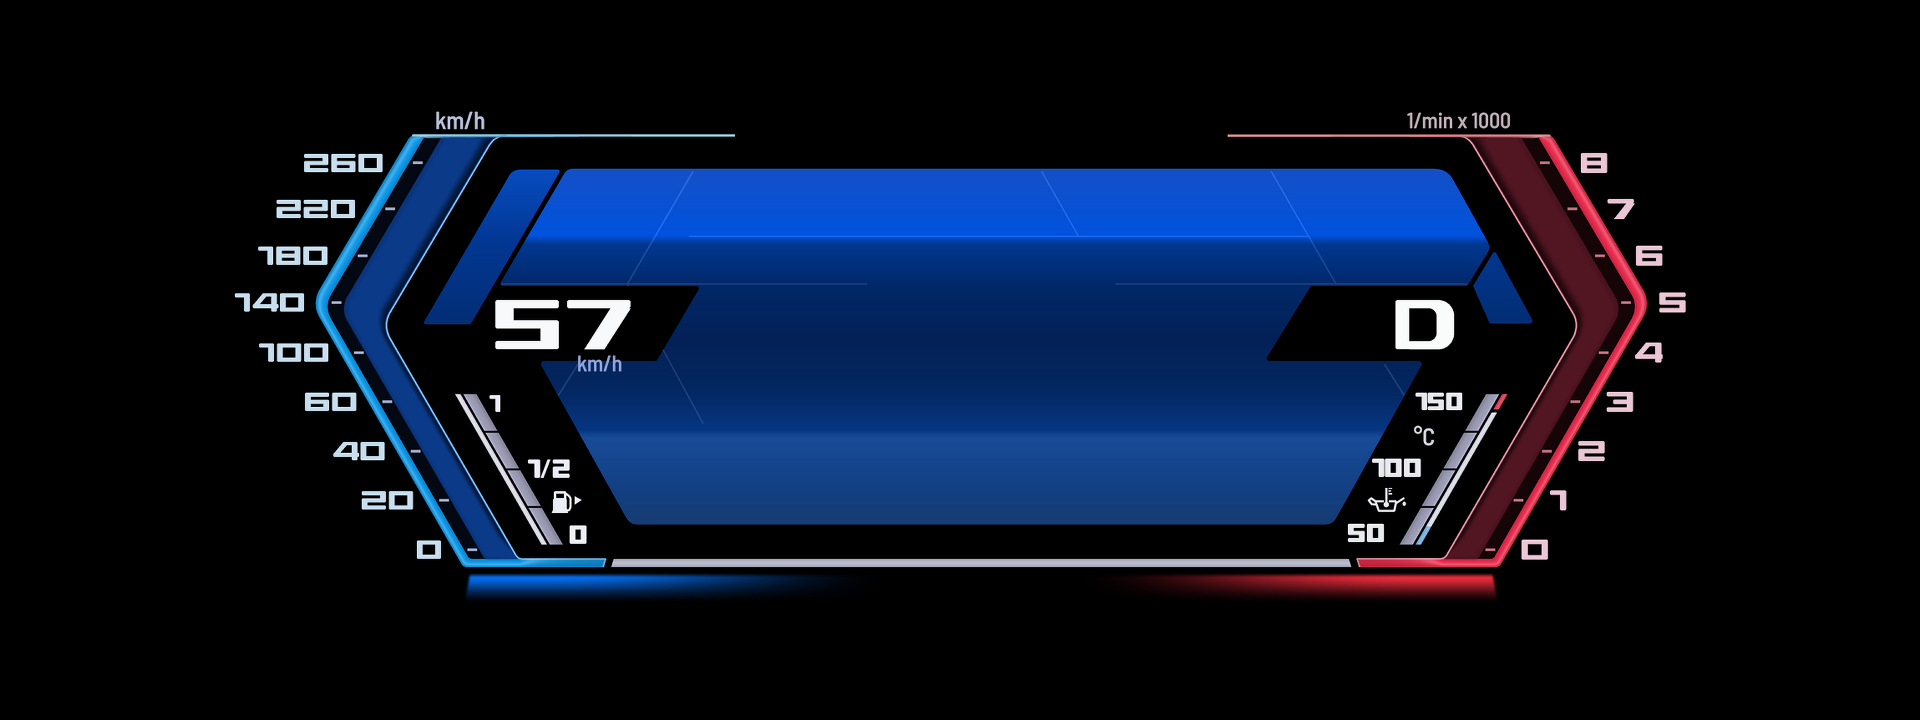
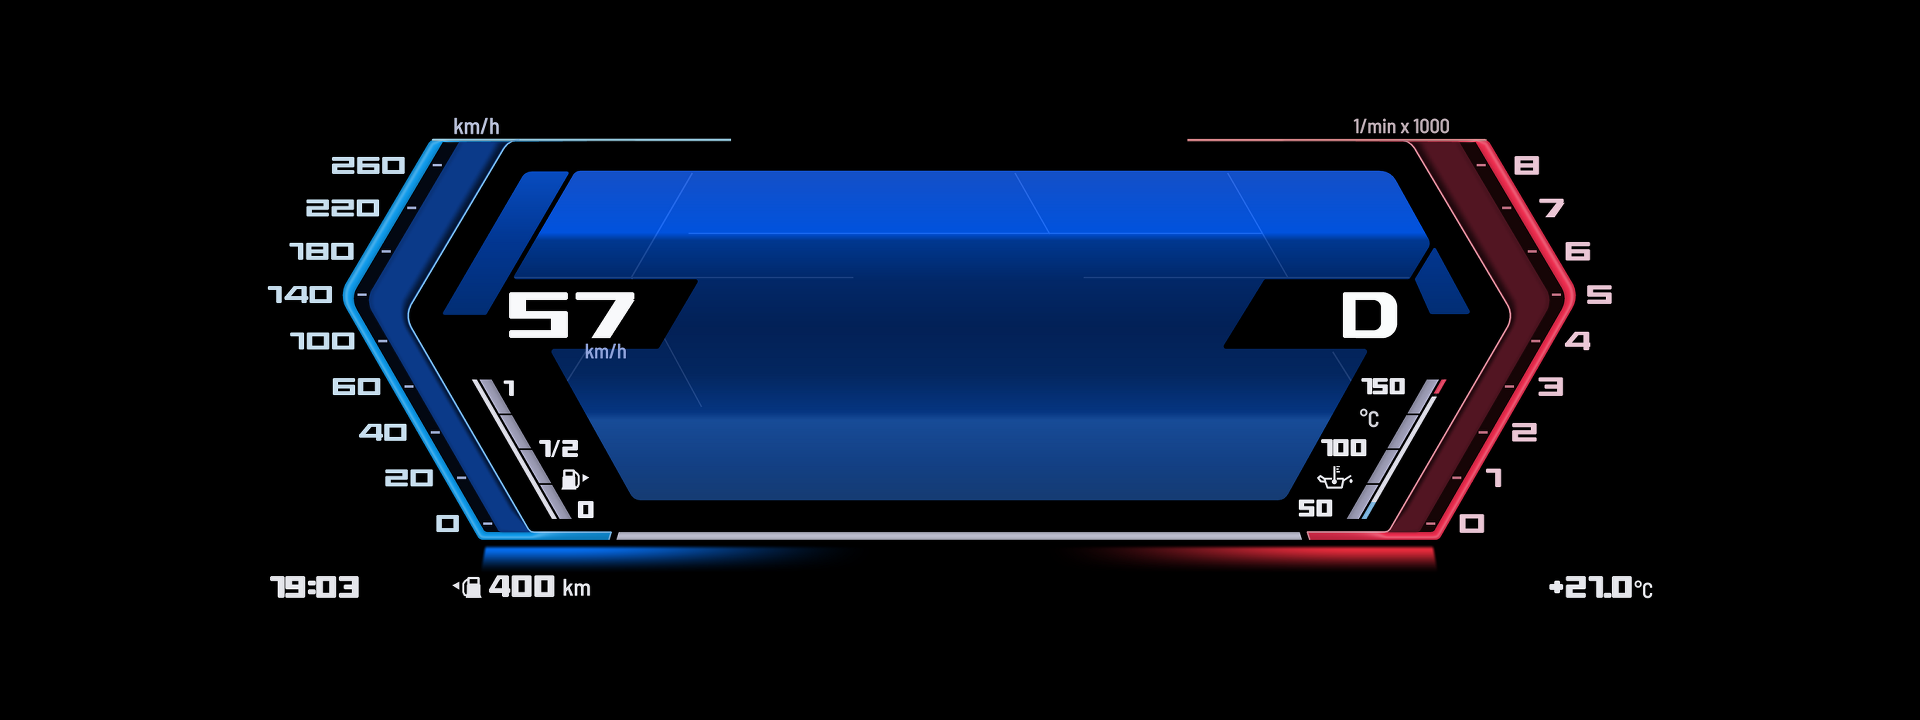
cluster: ID8-A bottom row (clock, range with the pump, outside temperature); the whole layout re-fitted to the visible area automatically
Claude-Session: https://claude.ai/code/session_01APCM7bQyWwkFmahRh5zUds

Changed region(s): [[0.125, 0.1528, 0.875, 0.8556], [0.8125, 0.7944, 0.875, 0.8556], [0.125, 0.7944, 0.1875, 0.8556]]

diff --git a/cluster/tools/gen_static.py b/cluster/tools/gen_static.py
@@ -236,7 +236,11 @@ DIGITS = {
     '9': [_T, (0, 0, _L, 13.5), _M, (_R, 0, 29, 22), _B],
 }
 DIGITS['/'] = [('quad', (12, 0), (17, 0), (5, 22), (0, 22))]
-DIGIT_W = {'1': 18, '/': 17}
+DIGITS[':'] = [(0, 4.5, 8, 9.5), (0, 13.5, 8, 18.5)]
+DIGITS['.'] = [(0, 17, 8, 22)]
+DIGITS['+'] = [(7, 4.5, 13, 17.5), (0, 8, 20, 14)]
+DIGITS['-'] = [(0, 8, 20, 14)]
+DIGIT_W = {'1': 18, '/': 17, ':': 8, '.': 8, '+': 20, '-': 20}
 
 
 def big_glyph(ch, w, h, tb, tu):
@@ -611,13 +615,36 @@ def feet_glow(img, cfg):
 
 
 def fit_view(img, cfg):
-    """The finished layer scaled about the view's centre (config 'view'), so the layout stays inside the car's
-    visible area (config 'visible')."""
+    """The finished layer scaled uniformly (proportions unchanged) so the layout stays inside the car's visible area
+    (config 'visible'): 'auto' finds the largest scale that keeps every drawn pixel inside it, centred in it."""
     v = cfg.get('view')
-    if not v or v.get('scale', 1) == 1:
+    if not v:
         return img
     W, H = cfg['grid']
-    k, cx, cy = v['scale'], v['cx'] * W, v['cy'] * H
+    if v.get('auto'):
+        a = np.asarray(img)[..., :3].max(-1) > 12
+        ys, xs = np.nonzero(a)
+        bx0, bx1, by0, by1 = xs.min(), xs.max() + 1, ys.min(), ys.max() + 1
+        vb = cfg['visible']['box']
+        vx0, vy0, vx1, vy1 = vb[0] * W, vb[1] * H, vb[2] * W, vb[3] * H
+        vis = Image.new('L', (W, H), 0)
+        ImageDraw.Draw(vis).rounded_rectangle([vx0, vy0, vx1, vy1], radius=cfg['visible'].get('corner', 0), fill=255)
+        vis = np.asarray(vis) > 0
+        k = min((vx1 - vx0) / (bx1 - bx0), (vy1 - vy0) / (by1 - by0)) * v.get('margin', 1.0)
+        while True:                                            # shrink until no pixel lands outside (the round corners)
+            tx, ty = (vx0 + vx1) / 2, (vy0 + vy1) / 2
+            cx, cy = (tx - k * (bx0 + bx1) / 2) / (1 - k), (ty - k * (by0 + by1) / 2) / (1 - k)
+            out = _scale(img, k, cx, cy, W, H)
+            if not ((np.asarray(out)[..., :3].max(-1) > 12) & ~vis).any() or k < 0.5:
+                v['_fit'] = {'scale': round(k, 4), 'cx': round(cx, 1), 'cy': round(cy, 1)}
+                return out
+            k -= 0.005
+    if v.get('scale', 1) == 1:
+        return img
+    return _scale(img, v['scale'], v['cx'] * W, v['cy'] * H, W, H)
+
+
+def _scale(img, k, cx, cy, W, H):
     big = img.resize((W * 2, H * 2), Image.LANCZOS)          # resample from a larger copy, then down
     out = big.transform((W, H), Image.AFFINE, (2 / k, 0, 2 * (cx - cx / k), 0, 2 / k, 2 * (cy - cy / k)),
                         resample=Image.BICUBIC, fillcolor=(0, 0, 0, 255))
@@ -664,6 +691,26 @@ def build_static(cfg):
     draw_labels(img, cfg)
     draw_gauge_labels(img, cfg)
     W, H = cfg['grid']
+    for el in cfg['elements'].values():                       # the bottom row (live values sampled)
+        rw = el.get('row')
+        if not rw:
+            continue
+        for it in rw['items']:
+            draw_number(img, it['sample'], it['at'][0] * W, it['at'][1] * H, rw['h'], 32.5, rw['color'],
+                        align='left', sx=rw['sx'], gap=rw['gap'])
+        for ic in rw.get('icons', []):
+            x0, y0, w, h = ic['at'][0] * W, ic['at'][1] * H, ic['size'][0], ic['size'][1]
+            if ic.get('mirror'):                               # the arrow on the left, as in the bottom row
+                tmp = Image.new('RGBA', (int(w) + 8, int(h) + 8), (0, 0, 0, 0))
+                draw_pump(tmp, 4, 4, w, h, rw['color'])
+                img.alpha_composite(tmp.transpose(Image.FLIP_LEFT_RIGHT), (int(round(x0)) - 4, int(round(y0)) - 4))
+            else:
+                draw_pump(img, x0, y0, w, h, rw['color'])
+        imperial = cfg.get('units') == 'imperial'
+        for lb in rw.get('labels', []):
+            if imperial and (lb.get('text_imperial') or lb.get('text_mph')):
+                lb = dict(lb, text=lb.get('text_imperial') or lb.get('text_mph'), fit_text=lb['text'])
+            draw_labels(img, {'grid': cfg['grid'], 'elements': {'t': {'label': lb}}})
     for el in cfg['elements'].values():                       # the live readouts, sampled with the photo's values
         dg = el.get('digits')
         if dg and el.get('sample'):
